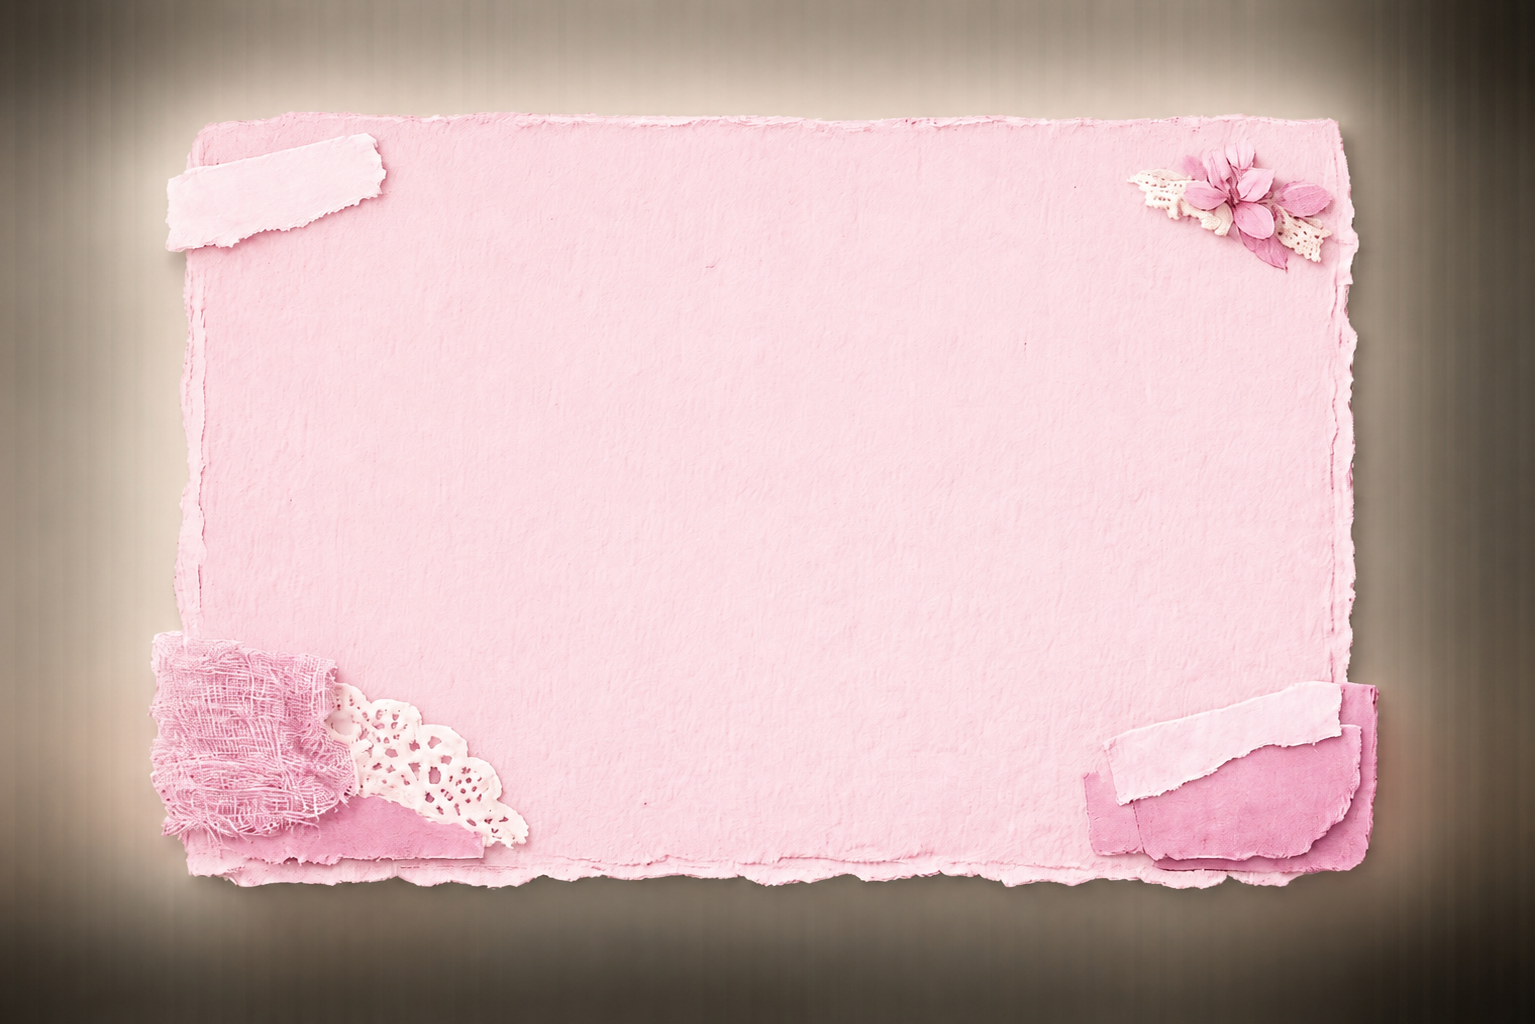
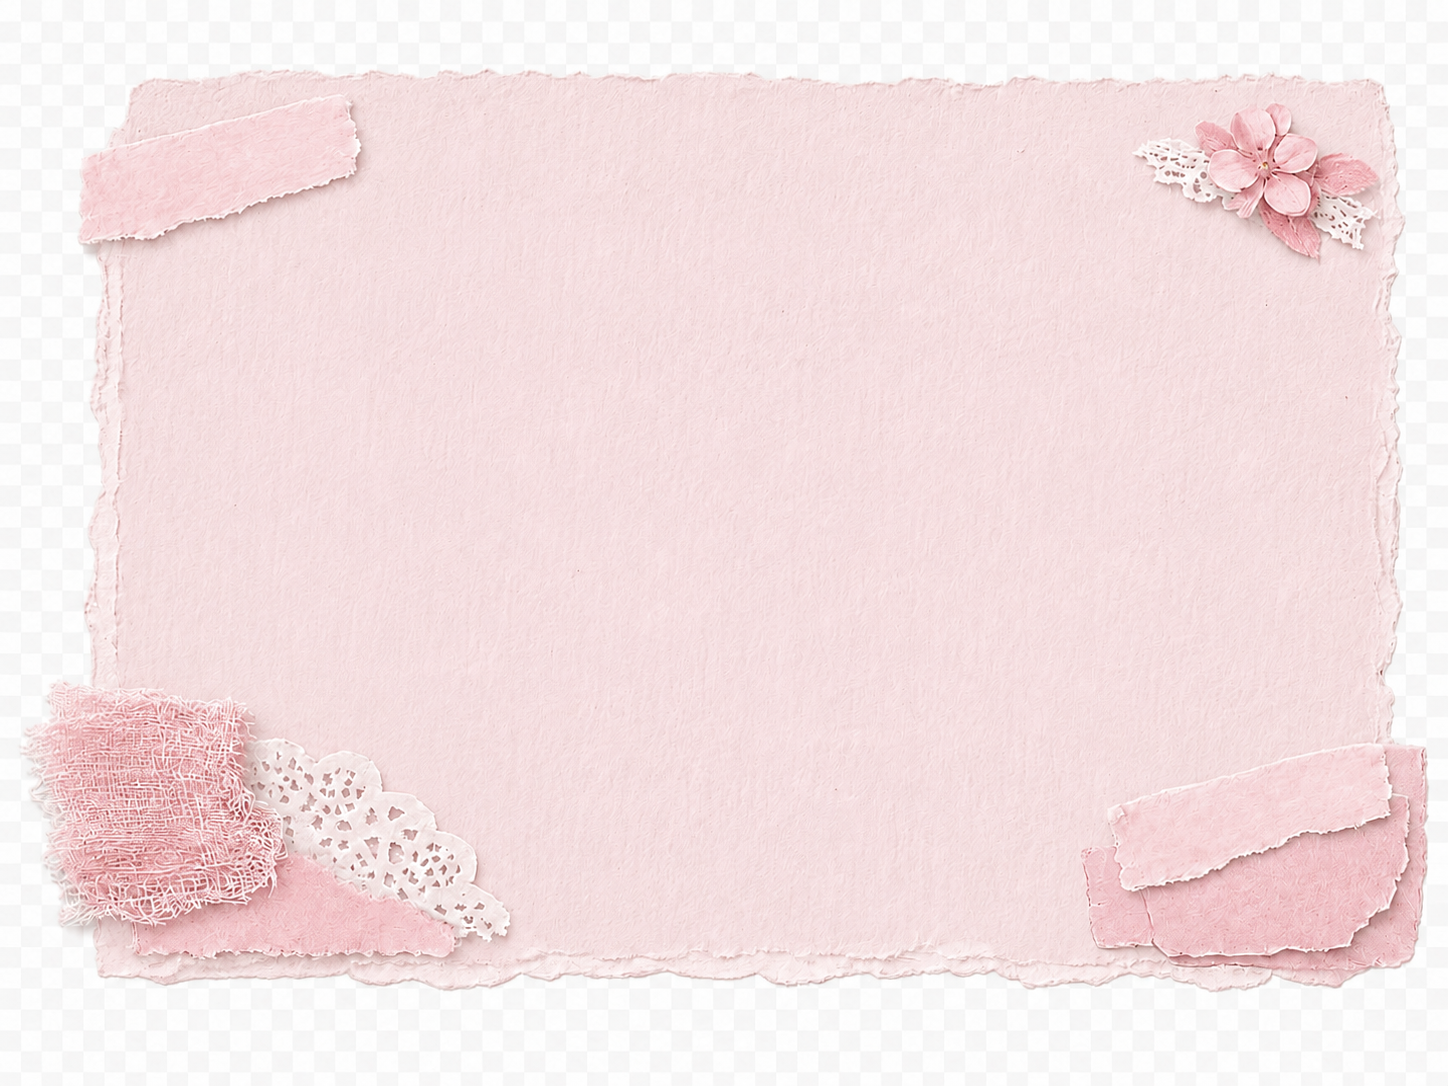
feat: scale scrapbook paper accents

diff --git a/src/components/final-card/final-card.module.css b/src/components/final-card/final-card.module.css
@@ -127,6 +127,9 @@
   --scrapbook-dried-small: url("/templates/scrapbook-clean/dried-flowers-small.png");
   --scrapbook-paper-tag-long: url("/templates/scrapbook-clean/paper-tag-long.png");
   --scrapbook-paper-tag-short: url("/templates/scrapbook-clean/paper-tag-short.png");
+  --scrapbook-paper-tag-short1: url("/templates/scrapbook-clean/paper-tag-short1.png");
+  --scrapbook-paper-tag-short2: url("/templates/scrapbook-clean/paper-tag-short2.png");
+  --scrapbook-paper-tag-short3: url("/templates/scrapbook-clean/paper-tag-short3.png");
   --scrapbook-greeting-pink: url("/templates/scrapbook-clean/greeting-card-pink.png");
   --scrapbook-greeting-cream: url("/templates/scrapbook-clean/greeting-card-cream.png");
   --scrapbook-greeting-blue: url("/templates/scrapbook-clean/greeting-card-blue.png");
@@ -759,8 +762,10 @@
   max-width: 92%;
   margin: -18px auto 0;
   clip-path: none;
-  padding: 18px 36px 28px;
-  background: var(--scrapbook-torn-summary) center / 100% 100% no-repeat;
+  border: 0;
+  border-radius: 0;
+  padding: 20px 40px 30px;
+  background: var(--scrapbook-torn-summary) center / 104% 112% no-repeat;
   box-shadow: none;
   transform: rotate(-0.7deg);
 }
@@ -812,24 +817,24 @@
   justify-content: center;
   gap: 18px 20px;
   align-items: center;
-  padding: 12px 8px 4px;
+  padding: 14px 8px 6px;
 }
 
 .paper-birthday .chip {
   display: inline-flex;
   justify-content: center;
   align-items: center;
-  min-width: 138px;
-  min-height: 56px;
-  padding: 12px 30px 16px;
+  min-width: 168px;
+  min-height: 72px;
+  padding: 16px 34px 20px;
   border: 0;
   border-radius: 3px;
   color: #4d342b;
   font-family: "Segoe Print", "Comic Sans MS", cursive;
   font-weight: 800;
-  font-size: 1rem;
+  font-size: 1.18rem;
   text-align: center;
-  background: var(--scrapbook-paper-tag-short) center / 100% 100% no-repeat;
+  background: var(--scrapbook-paper-tag-short1) center / 104% 104% no-repeat;
   box-shadow:
     0 10px 16px rgba(92, 58, 34, 0.08),
     inset 0 1px 0 rgba(255, 255, 255, 0.45);
@@ -837,36 +842,36 @@
 
 .paper-birthday .chip:nth-child(5n + 1) {
   background:
-    linear-gradient(rgba(246, 199, 189, 0.28), rgba(246, 199, 189, 0.28)),
-    var(--scrapbook-paper-tag-short) center / 100% 100% no-repeat;
+    linear-gradient(rgba(246, 199, 189, 0.18), rgba(246, 199, 189, 0.18)),
+    var(--scrapbook-paper-tag-short1) center / 104% 104% no-repeat;
   transform: rotate(-3deg);
 }
 
 .paper-birthday .chip:nth-child(5n + 2) {
   background:
-    linear-gradient(rgba(247, 225, 186, 0.32), rgba(247, 225, 186, 0.32)),
-    var(--scrapbook-paper-tag-short) center / 100% 100% no-repeat;
+    linear-gradient(rgba(247, 225, 186, 0.16), rgba(247, 225, 186, 0.16)),
+    var(--scrapbook-paper-tag-short2) center / 104% 104% no-repeat;
   transform: rotate(2deg);
 }
 
 .paper-birthday .chip:nth-child(5n + 3) {
   background:
-    linear-gradient(rgba(220, 232, 243, 0.34), rgba(220, 232, 243, 0.34)),
-    var(--scrapbook-paper-tag-short) center / 100% 100% no-repeat;
+    linear-gradient(rgba(220, 232, 243, 0.16), rgba(220, 232, 243, 0.16)),
+    var(--scrapbook-paper-tag-short3) center / 104% 104% no-repeat;
   transform: rotate(-1deg);
 }
 
 .paper-birthday .chip:nth-child(5n + 4) {
   background:
-    linear-gradient(rgba(244, 207, 199, 0.3), rgba(244, 207, 199, 0.3)),
-    var(--scrapbook-paper-tag-short) center / 100% 100% no-repeat;
+    linear-gradient(rgba(244, 207, 199, 0.16), rgba(244, 207, 199, 0.16)),
+    var(--scrapbook-paper-tag-short1) center / 104% 104% no-repeat;
   transform: rotate(2.8deg);
 }
 
 .paper-birthday .chip:nth-child(5n) {
   background:
-    linear-gradient(rgba(243, 229, 201, 0.3), rgba(243, 229, 201, 0.3)),
-    var(--scrapbook-paper-tag-short) center / 100% 100% no-repeat;
+    linear-gradient(rgba(243, 229, 201, 0.16), rgba(243, 229, 201, 0.16)),
+    var(--scrapbook-paper-tag-short2) center / 104% 104% no-repeat;
   transform: rotate(-2deg);
 }
 
@@ -965,17 +970,17 @@
 }
 
 .paper-birthday .quoteCard:nth-child(3n + 1) {
-  background: var(--scrapbook-quote-pink) center / 100% 100% no-repeat;
+  background: var(--scrapbook-quote-pink) center / 108% 108% no-repeat;
   transform: rotate(-1.2deg);
 }
 
 .paper-birthday .quoteCard:nth-child(3n + 2) {
-  background: var(--scrapbook-quote-beige) center / 100% 100% no-repeat;
+  background: var(--scrapbook-quote-beige) center / 108% 108% no-repeat;
   transform: rotate(0.8deg);
 }
 
 .paper-birthday .quoteCard:nth-child(3n) {
-  background: var(--scrapbook-quote-blue) center / 100% 100% no-repeat;
+  background: var(--scrapbook-quote-blue) center / 108% 108% no-repeat;
   transform: rotate(-0.5deg);
 }
 

diff --git a/docs/DELIVERY_LOG.md b/docs/DELIVERY_LOG.md
@@ -347,3 +347,9 @@
 2. Switched the `РљР°РєР°СЏ С‚С‹ РґР»СЏ РЅР°СЃ` labels from the tag-with-hole asset to the shorter torn-paper strip asset, which fits the reference better.
 3. Removed the extra gradient fills from `Р›СѓС‡С€РёРµ С„СЂР°Р·С‹` so the quote-paper assets render directly without muddy underlayers.
 4. Replaced the broken public pink quote asset copy with the original transparent source to eliminate the dark background bleed.
+
+## Update 2026-06-16 Scrapbook Midsection Scale Pass
+
+1. Enlarged the `РіР»Р°Р·Р°РјРё РіСЂСѓРїРїС‹` torn-paper asset and explicitly removed the inherited card border/radius so the leftover contour no longer fights the paper edge.
+2. Connected the new `paper-tag-short1/2/3` assets to `РљР°РєР°СЏ С‚С‹ РґР»СЏ РЅР°СЃ`, including a repeated use of `paper-tag-short1`, and increased both tag scale and label typography.
+3. Replaced the pink quote card public copy with the new source asset and increased background scale for all three quote cards so the paper artwork reads larger and cleaner.